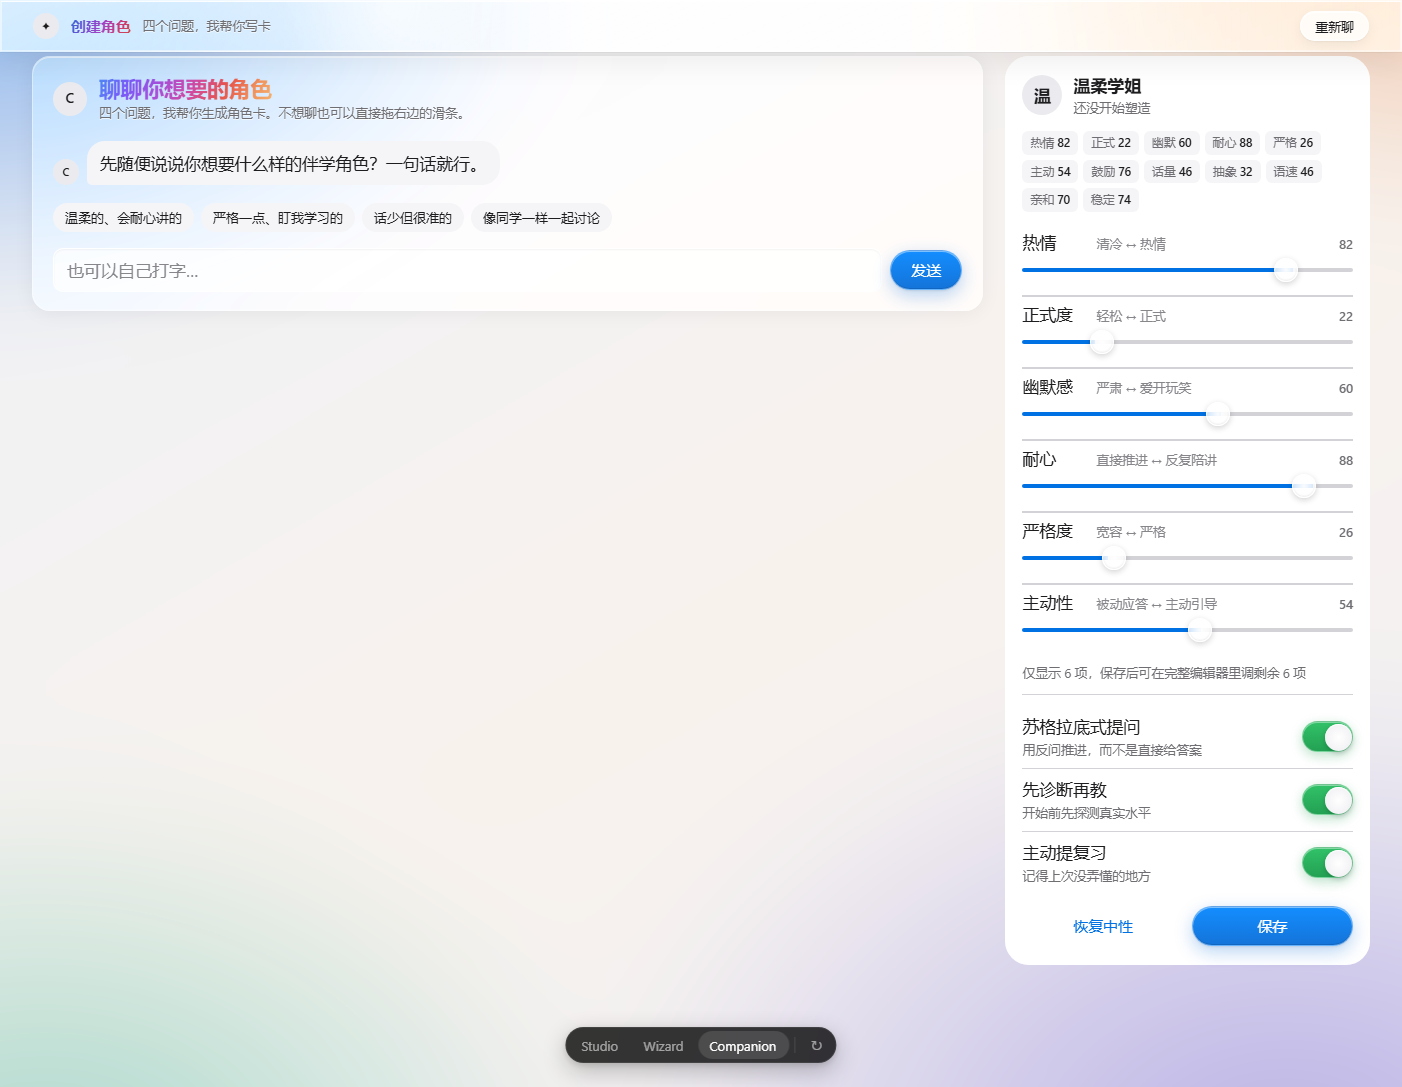
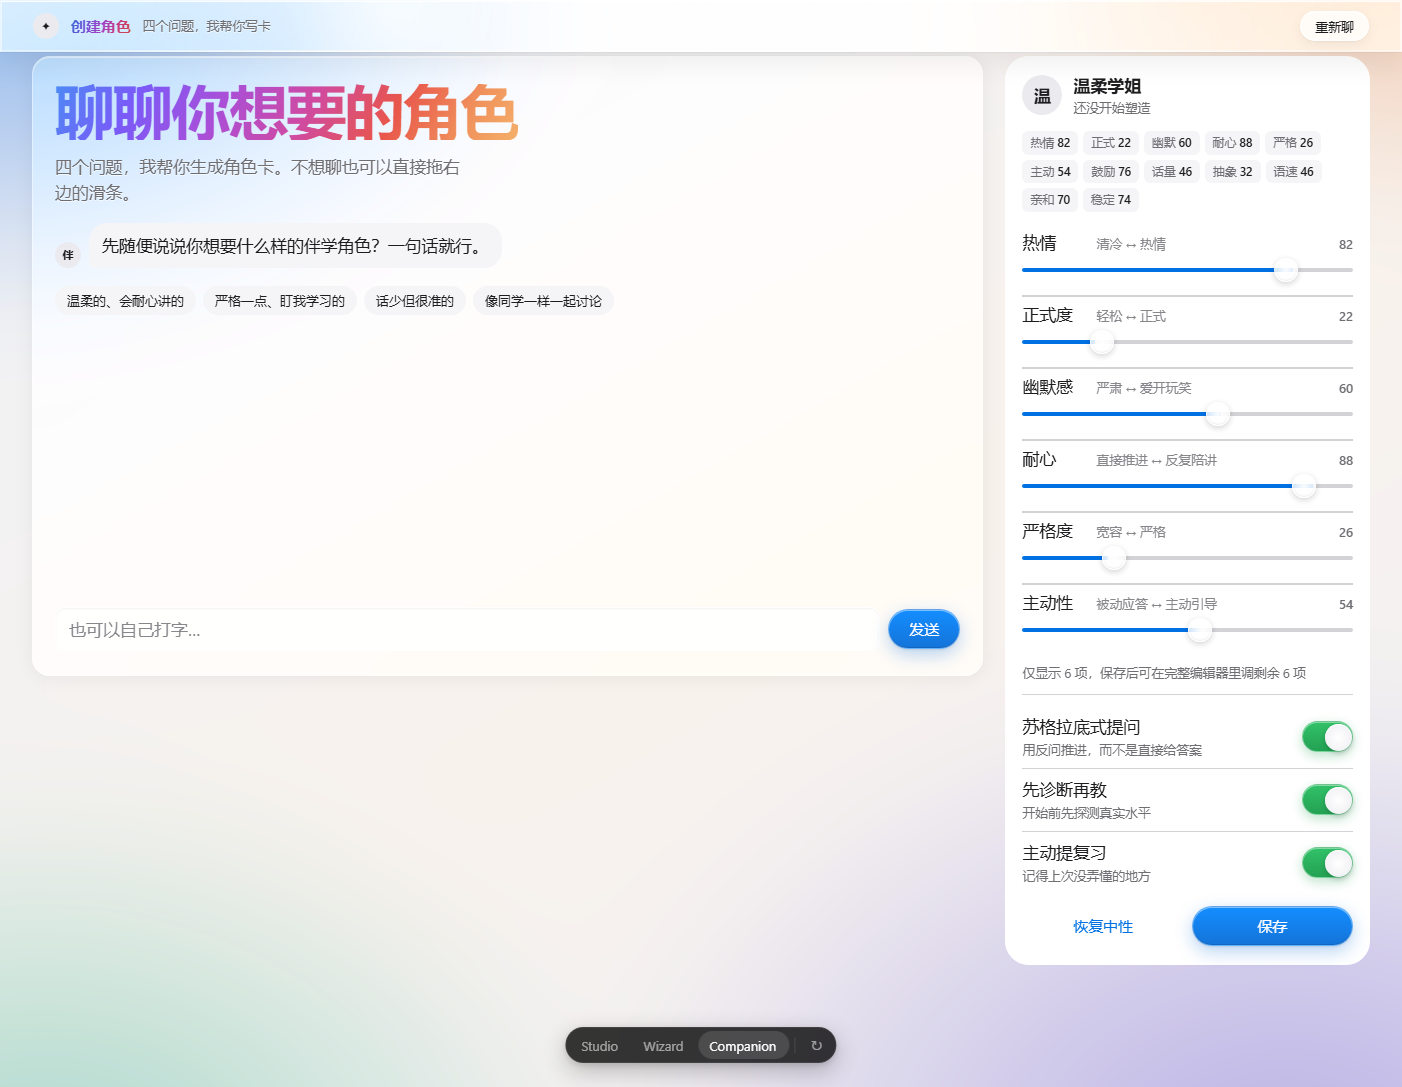
refactor(proto): 三个变体的首屏标题统一为同一规格
原先三者差很多，方向对比不公平:
  Studio     clamp(2.25rem, 4.6vw, 3.75rem)
  Wizard     clamp(2rem, 4vw, 3.25rem)
  Companion  1.375rem (22px)  <- 只有别人的三分之一

统一为 --fs-screen: clamp(2.25rem, 4.6vw, 3.75rem)
字高 1.02 / 字距 -0.035em / 字重 700 / 同一套渐变

Companion 结构也改了:
标题原本塞在头像旁边一行（22px），改成独立 header 大标题块，
副标题跟随统一规格（17px / 46ch）。

顺带修:
- 消息头像显示成 'C'（占位符）-> 改为角色首字『伴』
- 对话卡内容少时整块塌下去 -> min-height min(62vh,620px)，
  输入框用 margin-top:auto 固定在底部

实测计算样式（1600px 宽）:
  三个标题均 60px / 行高 61.2px / 字距 -2.1px / 字重 700
  background-clip: text，text-fill-color 透明
  [SAME_SPEC] true
三宽度检测仍全绿，控制台零错误

diff --git a/prototypes/Costudy-UI-原型.html b/prototypes/Costudy-UI-原型.html
@@ -1352,6 +1352,10 @@ body[data-backdrop="photo"] .v-wiz .steps {
    - 兜底：不支持 background-clip: text 时退回纯墨色，不能变成透明文字。
    ========================================================== */
 :root {
+  /* 三个变体共用的首屏标题规格：同一个字号/行高/字距，对比才公平 */
+  --fs-screen: clamp(2.25rem, 4.6vw, 3.75rem);
+  --lh-screen: 1.02;
+  --ls-screen: -0.035em;
   --grad-sweep: linear-gradient(
     118deg,
     #4c8bf5 0%,
@@ -1508,6 +1512,10 @@ body[data-backdrop="photo"] .v-wiz .steps {
      13-19px 会糊成脏色
    ========================================================== */
 :root {
+  /* 三个变体共用的首屏标题规格：同一个字号/行高/字距，对比才公平 */
+  --fs-screen: clamp(2.25rem, 4.6vw, 3.75rem);
+  --lh-screen: 1.02;
+  --ls-screen: -0.035em;
   --grad-sweep-dense: linear-gradient(
     118deg,
     #2f6fd0 0%,
@@ -1579,6 +1587,57 @@ h4,
     background-image: none;
     -webkit-text-fill-color: currentColor;
     color: var(--ink);
+  }
+}
+/* ==========================================================
+   首屏标题统一规格
+   Studio 的 hero、Wizard 的步骤标题、Companion 的对话标题，
+   三者字号/行高/字距必须一致 —— 否则三个方向的对比不公平。
+   ========================================================== */
+.hero-title,
+.screen-title,
+.v-wiz .wiz-title,
+.v-comp .comp-title,
+.v-comp .learn-top h1,
+.v-wiz .learn-head h1 {
+  font-family: var(--font-display);
+  font-size: var(--fs-screen);
+  line-height: var(--lh-screen);
+  letter-spacing: var(--ls-screen);
+  font-weight: 700;
+  margin: 0;
+  width: fit-content;
+  max-width: 100%;
+  background-image: var(--grad-sweep);
+  -webkit-background-clip: text;
+  background-clip: text;
+  -webkit-text-fill-color: transparent;
+  color: transparent;
+  text-shadow: none;
+}
+
+/* 副标题也统一 */
+.hero-sub,
+.v-wiz .wiz-sub,
+.v-comp .comp-sub {
+  margin: 14px 0 0;
+  max-width: 46ch;
+  font-size: var(--fs-body);
+  line-height: 1.5;
+  letter-spacing: -0.008em;
+  color: var(--ink-2);
+}
+
+/* 窄屏统一缩小 */
+@media (max-width: 1100px) {
+  .hero-title,
+  .screen-title,
+  .v-wiz .wiz-title,
+  .v-comp .comp-title,
+  .v-comp .learn-top h1,
+  .v-wiz .learn-head h1 {
+    font-size: clamp(1.875rem, 5.4vw, 2.75rem);
+    letter-spacing: -0.03em;
   }
 }
 </style>
@@ -2760,8 +2819,8 @@ const STYLE = `/* Wizard · 布局层 */
 
 .v-wiz .wiz-head { margin-bottom: 18px; }
 
-.v-wiz .wiz-title { font-family: var(--font-display); font-size: var(--fs-display); line-height: 1.1; letter-spacing: -0.024em; font-weight: 700; margin-top: 2px; }
-.v-wiz .wiz-sub { color: var(--label-2); margin-top: 6px; max-width: 52ch; font-size: var(--fs-body); }
+.v-wiz .wiz-head { padding-bottom: 4px; }
+
 .v-wiz .wiz-body { padding: 18px; }
 .v-wiz .wiz-foot { display: flex; align-items: center; gap: 8px; margin-top: 18px; }
 
@@ -3208,12 +3267,12 @@ const STYLE = `/* Companion · 布局层 */
   padding-top: 4px;
 }
 
-.v-comp .chat-pane { padding: 18px 20px; }
+.v-comp .chat-pane { padding: 20px 22px 24px; min-height: min(62vh, 620px); display: flex; flex-direction: column; }
 .v-comp .comp-head { display: flex; align-items: center; gap: 12px; margin-bottom: 18px; }
-.v-comp .comp-title { font-family: var(--font-display); font-size: var(--fs-title2); line-height: 1.2; letter-spacing: -0.018em; font-weight: 600; }
-.v-comp .comp-sub { font-size: var(--fs-footnote); color: var(--label-2); margin-top: 2px; }
+.v-comp .comp-hero { padding: 2px 0 18px; }
 
-.v-comp .thread { display: grid; gap: 9px; margin-bottom: 18px; }
+
+.v-comp .thread { display: grid; gap: 9px; margin-bottom: 18px; align-content: start; }
 .v-comp .msg { display: flex; gap: 8px; align-items: flex-end; animation: rise var(--dur-modal) var(--ease-out) both; }
 .v-comp .msg.me { flex-direction: row-reverse; }
 .v-comp .bubble {
@@ -3234,7 +3293,7 @@ const STYLE = `/* Companion · 布局层 */
 .v-comp .quick button:hover { background: var(--fill-2); }
 .v-comp .quick button:active { transform: scale(0.97); }
 
-.v-comp .composer { display: flex; gap: 8px; align-items: center; }
+.v-comp .composer { display: flex; gap: 8px; align-items: center; margin-top: auto; }
 .v-comp .composer .input { flex: 1; }
 
 /* 生成中的卡片 */
@@ -3379,13 +3438,10 @@ function renderInterview(root) {
   </div>
   <div class="app v-comp">
     <main class="chat-pane card">
-      <div class="comp-head">
-        ${avatar('C', '✦', 34)}
-        <div>
-          <h1 class="comp-title">聊聊你想要的角色</h1>
-          <div class="comp-sub">四个问题，我帮你生成角色卡。不想聊也可以直接拖右边的滑条。</div>
-        </div>
-      </div>
+      <header class="comp-hero">
+        <h1 class="comp-title">聊聊你想要的角色</h1>
+        <p class="comp-sub">四个问题，我帮你生成角色卡。不想聊也可以直接拖右边的滑条。</p>
+      </header>
 
       <div class="thread" data-thread>
         ${state.messages
@@ -3400,7 +3456,7 @@ function renderInterview(root) {
         ${
           finished
             ? `<div class="msg ai">${avatar(state.name, state.emoji, 26)}<div class="bubble">角色卡已经生成好了，在右边。想改哪一项直接拖滑条，或者继续跟我聊。</div></div>`
-            : `<div class="msg ai">${avatar('C', '✦', 26)}<div class="bubble">${esc(q.q)}</div></div>`
+            : `<div class="msg ai">${avatar('伴', '✦', 26)}<div class="bubble">${esc(q.q)}</div></div>`
         }
       </div>
 

diff --git a/prototypes/costudy-ui/variant-companion.js b/prototypes/costudy-ui/variant-companion.js
@@ -18,12 +18,12 @@ const STYLE = `/* Companion · 布局层 */
   padding-top: 4px;
 }
 
-.v-comp .chat-pane { padding: 18px 20px; }
+.v-comp .chat-pane { padding: 20px 22px 24px; min-height: min(62vh, 620px); display: flex; flex-direction: column; }
 .v-comp .comp-head { display: flex; align-items: center; gap: 12px; margin-bottom: 18px; }
-.v-comp .comp-title { font-family: var(--font-display); font-size: var(--fs-title2); line-height: 1.2; letter-spacing: -0.018em; font-weight: 600; }
-.v-comp .comp-sub { font-size: var(--fs-footnote); color: var(--label-2); margin-top: 2px; }
+.v-comp .comp-hero { padding: 2px 0 18px; }
 
-.v-comp .thread { display: grid; gap: 9px; margin-bottom: 18px; }
+
+.v-comp .thread { display: grid; gap: 9px; margin-bottom: 18px; align-content: start; }
 .v-comp .msg { display: flex; gap: 8px; align-items: flex-end; animation: rise var(--dur-modal) var(--ease-out) both; }
 .v-comp .msg.me { flex-direction: row-reverse; }
 .v-comp .bubble {
@@ -44,7 +44,7 @@ const STYLE = `/* Companion · 布局层 */
 .v-comp .quick button:hover { background: var(--fill-2); }
 .v-comp .quick button:active { transform: scale(0.97); }
 
-.v-comp .composer { display: flex; gap: 8px; align-items: center; }
+.v-comp .composer { display: flex; gap: 8px; align-items: center; margin-top: auto; }
 .v-comp .composer .input { flex: 1; }
 
 /* 生成中的卡片 */
@@ -189,13 +189,10 @@ function renderInterview(root) {
   </div>
   <div class="app v-comp">
     <main class="chat-pane card">
-      <div class="comp-head">
-        ${avatar('C', '✦', 34)}
-        <div>
-          <h1 class="comp-title">聊聊你想要的角色</h1>
-          <div class="comp-sub">四个问题，我帮你生成角色卡。不想聊也可以直接拖右边的滑条。</div>
-        </div>
-      </div>
+      <header class="comp-hero">
+        <h1 class="comp-title">聊聊你想要的角色</h1>
+        <p class="comp-sub">四个问题，我帮你生成角色卡。不想聊也可以直接拖右边的滑条。</p>
+      </header>
 
       <div class="thread" data-thread>
         ${state.messages
@@ -210,7 +207,7 @@ function renderInterview(root) {
         ${
           finished
             ? `<div class="msg ai">${avatar(state.name, state.emoji, 26)}<div class="bubble">角色卡已经生成好了，在右边。想改哪一项直接拖滑条，或者继续跟我聊。</div></div>`
-            : `<div class="msg ai">${avatar('C', '✦', 26)}<div class="bubble">${esc(q.q)}</div></div>`
+            : `<div class="msg ai">${avatar('伴', '✦', 26)}<div class="bubble">${esc(q.q)}</div></div>`
         }
       </div>
 

diff --git a/prototypes/costudy-ui/gradient-type.css b/prototypes/costudy-ui/gradient-type.css
@@ -13,6 +13,10 @@
    - 兜底：不支持 background-clip: text 时退回纯墨色，不能变成透明文字。
    ========================================================== */
 :root {
+  /* 三个变体共用的首屏标题规格：同一个字号/行高/字距，对比才公平 */
+  --fs-screen: clamp(2.25rem, 4.6vw, 3.75rem);
+  --lh-screen: 1.02;
+  --ls-screen: -0.035em;
   --grad-sweep: linear-gradient(
     118deg,
     #4c8bf5 0%,
@@ -169,6 +173,10 @@
      13-19px 会糊成脏色
    ========================================================== */
 :root {
+  /* 三个变体共用的首屏标题规格：同一个字号/行高/字距，对比才公平 */
+  --fs-screen: clamp(2.25rem, 4.6vw, 3.75rem);
+  --lh-screen: 1.02;
+  --ls-screen: -0.035em;
   --grad-sweep-dense: linear-gradient(
     118deg,
     #2f6fd0 0%,
@@ -240,5 +248,56 @@ h4,
     background-image: none;
     -webkit-text-fill-color: currentColor;
     color: var(--ink);
+  }
+}
+/* ==========================================================
+   首屏标题统一规格
+   Studio 的 hero、Wizard 的步骤标题、Companion 的对话标题，
+   三者字号/行高/字距必须一致 —— 否则三个方向的对比不公平。
+   ========================================================== */
+.hero-title,
+.screen-title,
+.v-wiz .wiz-title,
+.v-comp .comp-title,
+.v-comp .learn-top h1,
+.v-wiz .learn-head h1 {
+  font-family: var(--font-display);
+  font-size: var(--fs-screen);
+  line-height: var(--lh-screen);
+  letter-spacing: var(--ls-screen);
+  font-weight: 700;
+  margin: 0;
+  width: fit-content;
+  max-width: 100%;
+  background-image: var(--grad-sweep);
+  -webkit-background-clip: text;
+  background-clip: text;
+  -webkit-text-fill-color: transparent;
+  color: transparent;
+  text-shadow: none;
+}
+
+/* 副标题也统一 */
+.hero-sub,
+.v-wiz .wiz-sub,
+.v-comp .comp-sub {
+  margin: 14px 0 0;
+  max-width: 46ch;
+  font-size: var(--fs-body);
+  line-height: 1.5;
+  letter-spacing: -0.008em;
+  color: var(--ink-2);
+}
+
+/* 窄屏统一缩小 */
+@media (max-width: 1100px) {
+  .hero-title,
+  .screen-title,
+  .v-wiz .wiz-title,
+  .v-comp .comp-title,
+  .v-comp .learn-top h1,
+  .v-wiz .learn-head h1 {
+    font-size: clamp(1.875rem, 5.4vw, 2.75rem);
+    letter-spacing: -0.03em;
   }
 }

diff --git a/prototypes/costudy-ui/variant-wizard.js b/prototypes/costudy-ui/variant-wizard.js
@@ -34,8 +34,8 @@ const STYLE = `/* Wizard · 布局层 */
 
 .v-wiz .wiz-head { margin-bottom: 18px; }
 
-.v-wiz .wiz-title { font-family: var(--font-display); font-size: var(--fs-display); line-height: 1.1; letter-spacing: -0.024em; font-weight: 700; margin-top: 2px; }
-.v-wiz .wiz-sub { color: var(--label-2); margin-top: 6px; max-width: 52ch; font-size: var(--fs-body); }
+.v-wiz .wiz-head { padding-bottom: 4px; }
+
 .v-wiz .wiz-body { padding: 18px; }
 .v-wiz .wiz-foot { display: flex; align-items: center; gap: 8px; margin-top: 18px; }
 
